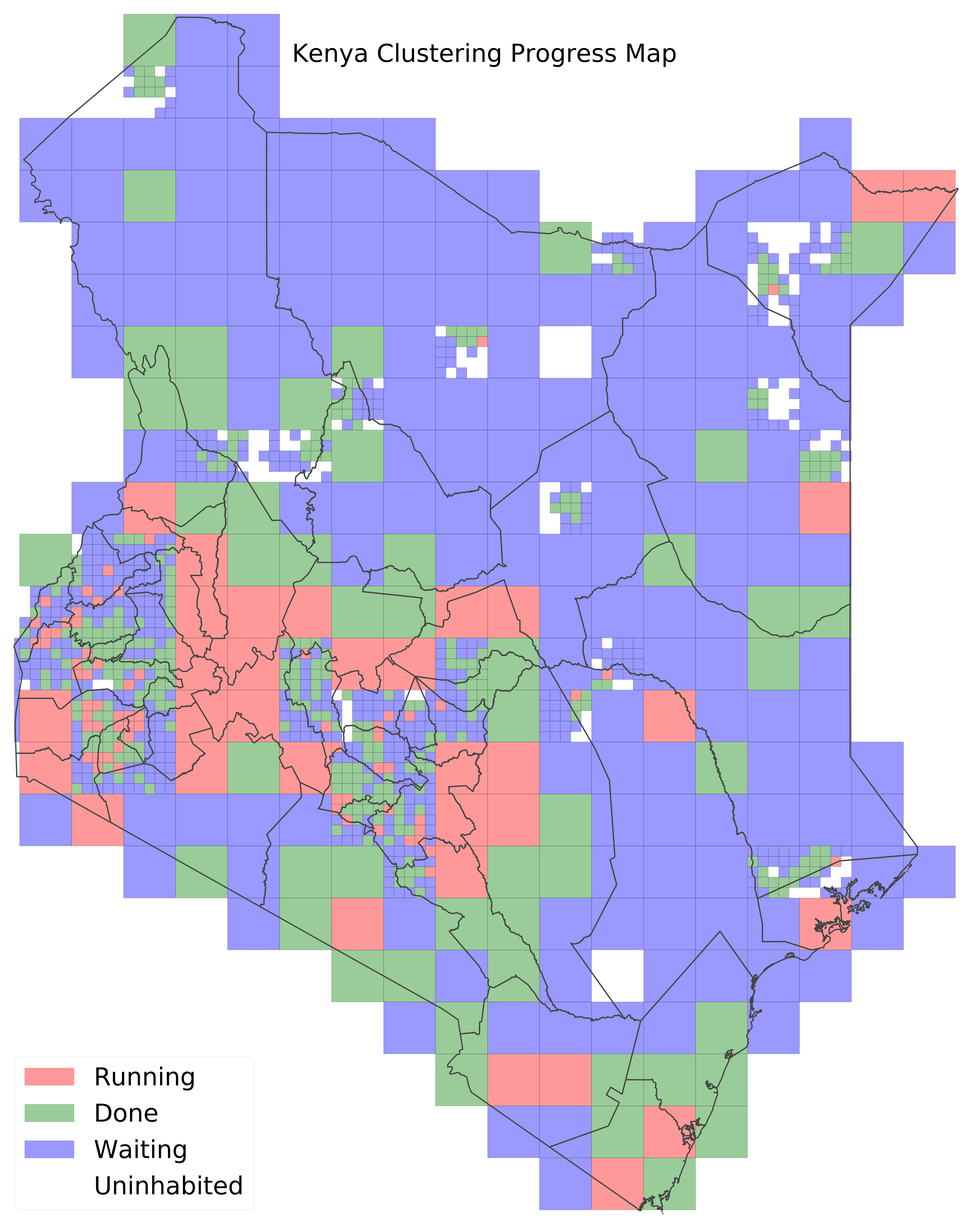
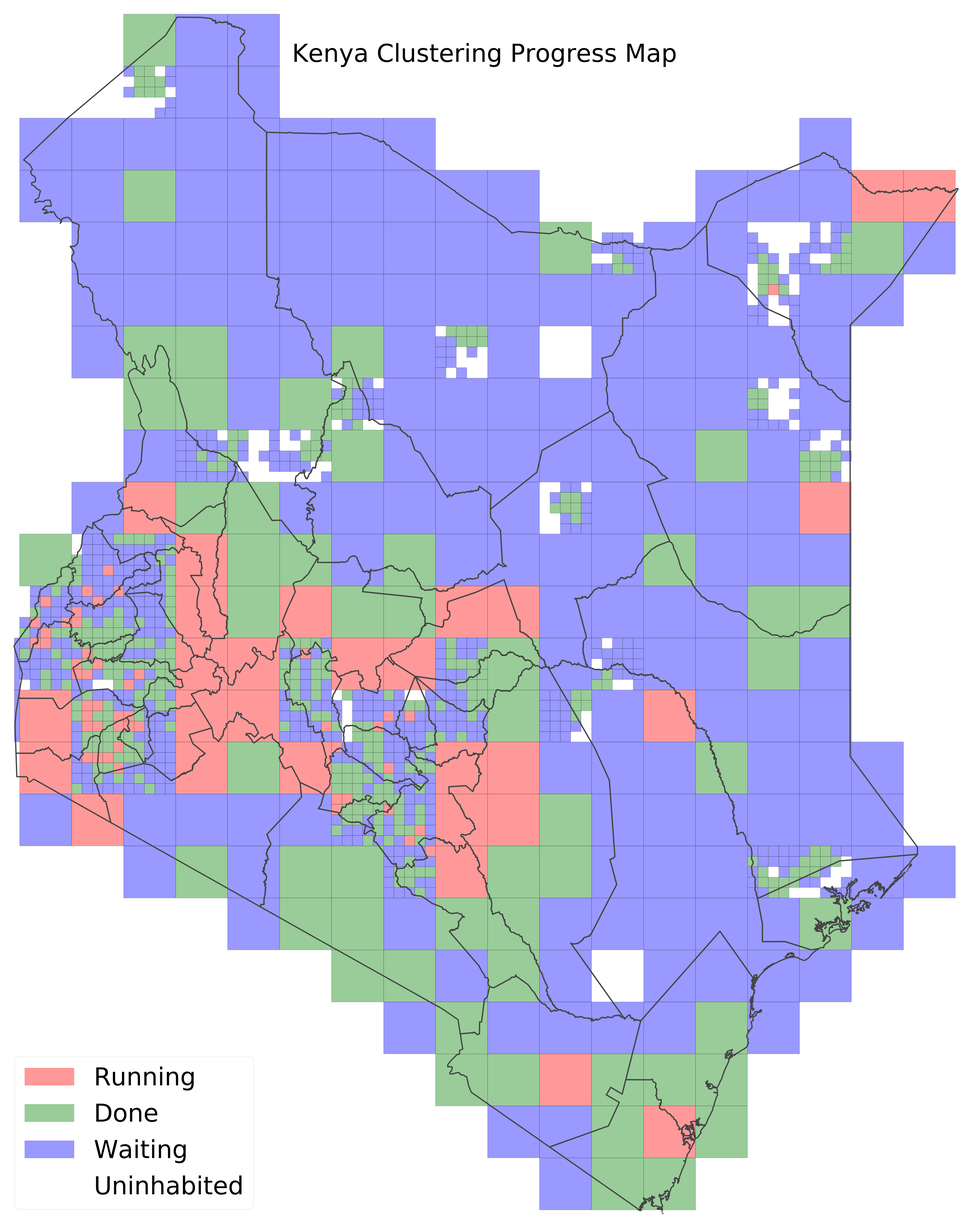
Update

diff --git a/index.html b/index.html
@@ -54,15 +54,15 @@
                                 <div>
         
         
-            <div id="2d0a9615-b0a7-439f-aee2-c193598737e7" class="plotly-graph-div" style="height:100%; width:100%;"></div>
+            <div id="19d2076e-b19a-46d4-a4b0-689c056f9ac7" class="plotly-graph-div" style="height:100%; width:100%;"></div>
             <script type="text/javascript">
                 
                     window.PLOTLYENV=window.PLOTLYENV || {};
                     
-                if (document.getElementById("2d0a9615-b0a7-439f-aee2-c193598737e7")) {
+                if (document.getElementById("19d2076e-b19a-46d4-a4b0-689c056f9ac7")) {
                     Plotly.newPlot(
-                        '2d0a9615-b0a7-439f-aee2-c193598737e7',
-                        [{"domain": {"x": [0.0, 0.45], "y": [0.0, 1.0]}, "labels": ["Completed", "Running", "Waiting"], "marker": {"colors": ["green", "red", "blue"]}, "type": "pie", "values": [6985389, 2643409, 2087509]}, {"domain": {"x": [0.55, 1.0], "y": [0.0, 1.0]}, "labels": ["Completed", "Running", "Waiting"], "marker": {"colors": ["green", "red", "blue"]}, "type": "pie", "values": [1293, 99, 652]}],
+                        '19d2076e-b19a-46d4-a4b0-689c056f9ac7',
+                        [{"domain": {"x": [0.0, 0.45], "y": [0.0, 1.0]}, "labels": ["Completed", "Running", "Waiting"], "marker": {"colors": ["green", "red", "blue"]}, "type": "pie", "values": [7272424, 2356374, 2087509]}, {"domain": {"x": [0.55, 1.0], "y": [0.0, 1.0]}, "labels": ["Completed", "Running", "Waiting"], "marker": {"colors": ["green", "red", "blue"]}, "type": "pie", "values": [1315, 77, 652]}],
                         {"annotations": [{"font": {"size": 16}, "showarrow": false, "text": "Area to be clustered", "x": 0.225, "xanchor": "center", "xref": "paper", "y": 1.0, "yanchor": "bottom", "yref": "paper"}, {"font": {"size": 16}, "showarrow": false, "text": "Jobs running", "x": 0.775, "xanchor": "center", "xref": "paper", "y": 1.0, "yanchor": "bottom", "yref": "paper"}], "template": {"data": {"bar": [{"error_x": {"color": "#2a3f5f"}, "error_y": {"color": "#2a3f5f"}, "marker": {"line": {"color": "#E5ECF6", "width": 0.5}}, "type": "bar"}], "barpolar": [{"marker": {"line": {"color": "#E5ECF6", "width": 0.5}}, "type": "barpolar"}], "carpet": [{"aaxis": {"endlinecolor": "#2a3f5f", "gridcolor": "white", "linecolor": "white", "minorgridcolor": "white", "startlinecolor": "#2a3f5f"}, "baxis": {"endlinecolor": "#2a3f5f", "gridcolor": "white", "linecolor": "white", "minorgridcolor": "white", "startlinecolor": "#2a3f5f"}, "type": "carpet"}], "choropleth": [{"colorbar": {"outlinewidth": 0, "ticks": ""}, "type": "choropleth"}], "contour": [{"colorbar": {"outlinewidth": 0, "ticks": ""}, "colorscale": [[0.0, "#0d0887"], [0.1111111111111111, "#46039f"], [0.2222222222222222, "#7201a8"], [0.3333333333333333, "#9c179e"], [0.4444444444444444, "#bd3786"], [0.5555555555555556, "#d8576b"], [0.6666666666666666, "#ed7953"], [0.7777777777777778, "#fb9f3a"], [0.8888888888888888, "#fdca26"], [1.0, "#f0f921"]], "type": "contour"}], "contourcarpet": [{"colorbar": {"outlinewidth": 0, "ticks": ""}, "type": "contourcarpet"}], "heatmap": [{"colorbar": {"outlinewidth": 0, "ticks": ""}, "colorscale": [[0.0, "#0d0887"], [0.1111111111111111, "#46039f"], [0.2222222222222222, "#7201a8"], [0.3333333333333333, "#9c179e"], [0.4444444444444444, "#bd3786"], [0.5555555555555556, "#d8576b"], [0.6666666666666666, "#ed7953"], [0.7777777777777778, "#fb9f3a"], [0.8888888888888888, "#fdca26"], [1.0, "#f0f921"]], "type": "heatmap"}], "heatmapgl": [{"colorbar": {"outlinewidth": 0, "ticks": ""}, "colorscale": [[0.0, "#0d0887"], [0.1111111111111111, "#46039f"], [0.2222222222222222, "#7201a8"], [0.3333333333333333, "#9c179e"], [0.4444444444444444, "#bd3786"], [0.5555555555555556, "#d8576b"], [0.6666666666666666, "#ed7953"], [0.7777777777777778, "#fb9f3a"], [0.8888888888888888, "#fdca26"], [1.0, "#f0f921"]], "type": "heatmapgl"}], "histogram": [{"marker": {"colorbar": {"outlinewidth": 0, "ticks": ""}}, "type": "histogram"}], "histogram2d": [{"colorbar": {"outlinewidth": 0, "ticks": ""}, "colorscale": [[0.0, "#0d0887"], [0.1111111111111111, "#46039f"], [0.2222222222222222, "#7201a8"], [0.3333333333333333, "#9c179e"], [0.4444444444444444, "#bd3786"], [0.5555555555555556, "#d8576b"], [0.6666666666666666, "#ed7953"], [0.7777777777777778, "#fb9f3a"], [0.8888888888888888, "#fdca26"], [1.0, "#f0f921"]], "type": "histogram2d"}], "histogram2dcontour": [{"colorbar": {"outlinewidth": 0, "ticks": ""}, "colorscale": [[0.0, "#0d0887"], [0.1111111111111111, "#46039f"], [0.2222222222222222, "#7201a8"], [0.3333333333333333, "#9c179e"], [0.4444444444444444, "#bd3786"], [0.5555555555555556, "#d8576b"], [0.6666666666666666, "#ed7953"], [0.7777777777777778, "#fb9f3a"], [0.8888888888888888, "#fdca26"], [1.0, "#f0f921"]], "type": "histogram2dcontour"}], "mesh3d": [{"colorbar": {"outlinewidth": 0, "ticks": ""}, "type": "mesh3d"}], "parcoords": [{"line": {"colorbar": {"outlinewidth": 0, "ticks": ""}}, "type": "parcoords"}], "scatter": [{"marker": {"colorbar": {"outlinewidth": 0, "ticks": ""}}, "type": "scatter"}], "scatter3d": [{"line": {"colorbar": {"outlinewidth": 0, "ticks": ""}}, "marker": {"colorbar": {"outlinewidth": 0, "ticks": ""}}, "type": "scatter3d"}], "scattercarpet": [{"marker": {"colorbar": {"outlinewidth": 0, "ticks": ""}}, "type": "scattercarpet"}], "scattergeo": [{"marker": {"colorbar": {"outlinewidth": 0, "ticks": ""}}, "type": "scattergeo"}], "scattergl": [{"marker": {"colorbar": {"outlinewidth": 0, "ticks": ""}}, "type": "scattergl"}], "scattermapbox": [{"marker": {"colorbar": {"outlinewidth": 0, "ticks": ""}}, "type": "scattermapbox"}], "scatterpolar": [{"marker": {"colorbar": {"outlinewidth": 0, "ticks": ""}}, "type": "scatterpolar"}], "scatterpolargl": [{"marker": {"colorbar": {"outlinewidth": 0, "ticks": ""}}, "type": "scatterpolargl"}], "scatterternary": [{"marker": {"colorbar": {"outlinewidth": 0, "ticks": ""}}, "type": "scatterternary"}], "surface": [{"colorbar": {"outlinewidth": 0, "ticks": ""}, "colorscale": [[0.0, "#0d0887"], [0.1111111111111111, "#46039f"], [0.2222222222222222, "#7201a8"], [0.3333333333333333, "#9c179e"], [0.4444444444444444, "#bd3786"], [0.5555555555555556, "#d8576b"], [0.6666666666666666, "#ed7953"], [0.7777777777777778, "#fb9f3a"], [0.8888888888888888, "#fdca26"], [1.0, "#f0f921"]], "type": "surface"}], "table": [{"cells": {"fill": {"color": "#EBF0F8"}, "line": {"color": "white"}}, "header": {"fill": {"color": "#C8D4E3"}, "line": {"color": "white"}}, "type": "table"}]}, "layout": {"annotationdefaults": {"arrowcolor": "#2a3f5f", "arrowhead": 0, "arrowwidth": 1}, "colorscale": {"diverging": [[0, "#8e0152"], [0.1, "#c51b7d"], [0.2, "#de77ae"], [0.3, "#f1b6da"], [0.4, "#fde0ef"], [0.5, "#f7f7f7"], [0.6, "#e6f5d0"], [0.7, "#b8e186"], [0.8, "#7fbc41"], [0.9, "#4d9221"], [1, "#276419"]], "sequential": [[0.0, "#0d0887"], [0.1111111111111111, "#46039f"], [0.2222222222222222, "#7201a8"], [0.3333333333333333, "#9c179e"], [0.4444444444444444, "#bd3786"], [0.5555555555555556, "#d8576b"], [0.6666666666666666, "#ed7953"], [0.7777777777777778, "#fb9f3a"], [0.8888888888888888, "#fdca26"], [1.0, "#f0f921"]], "sequentialminus": [[0.0, "#0d0887"], [0.1111111111111111, "#46039f"], [0.2222222222222222, "#7201a8"], [0.3333333333333333, "#9c179e"], [0.4444444444444444, "#bd3786"], [0.5555555555555556, "#d8576b"], [0.6666666666666666, "#ed7953"], [0.7777777777777778, "#fb9f3a"], [0.8888888888888888, "#fdca26"], [1.0, "#f0f921"]]}, "colorway": ["#636efa", "#EF553B", "#00cc96", "#ab63fa", "#FFA15A", "#19d3f3", "#FF6692", "#B6E880", "#FF97FF", "#FECB52"], "font": {"color": "#2a3f5f"}, "geo": {"bgcolor": "white", "lakecolor": "white", "landcolor": "#E5ECF6", "showlakes": true, "showland": true, "subunitcolor": "white"}, "hoverlabel": {"align": "left"}, "hovermode": "closest", "mapbox": {"style": "light"}, "paper_bgcolor": "white", "plot_bgcolor": "#E5ECF6", "polar": {"angularaxis": {"gridcolor": "white", "linecolor": "white", "ticks": ""}, "bgcolor": "#E5ECF6", "radialaxis": {"gridcolor": "white", "linecolor": "white", "ticks": ""}}, "scene": {"xaxis": {"backgroundcolor": "#E5ECF6", "gridcolor": "white", "gridwidth": 2, "linecolor": "white", "showbackground": true, "ticks": "", "zerolinecolor": "white"}, "yaxis": {"backgroundcolor": "#E5ECF6", "gridcolor": "white", "gridwidth": 2, "linecolor": "white", "showbackground": true, "ticks": "", "zerolinecolor": "white"}, "zaxis": {"backgroundcolor": "#E5ECF6", "gridcolor": "white", "gridwidth": 2, "linecolor": "white", "showbackground": true, "ticks": "", "zerolinecolor": "white"}}, "shapedefaults": {"line": {"color": "#2a3f5f"}}, "ternary": {"aaxis": {"gridcolor": "white", "linecolor": "white", "ticks": ""}, "baxis": {"gridcolor": "white", "linecolor": "white", "ticks": ""}, "bgcolor": "#E5ECF6", "caxis": {"gridcolor": "white", "linecolor": "white", "ticks": ""}}, "title": {"x": 0.05}, "xaxis": {"automargin": true, "gridcolor": "white", "linecolor": "white", "ticks": "", "zerolinecolor": "white", "zerolinewidth": 2}, "yaxis": {"automargin": true, "gridcolor": "white", "linecolor": "white", "ticks": "", "zerolinecolor": "white", "zerolinewidth": 2}}}, "title": {"text": "Completion Statistics"}},
                         {"responsive": true}
                     )
@@ -74,15 +74,15 @@
                                 <div>
         
         
-            <div id="6c0a2bd8-3aad-40c9-ac04-60a2e9d9c943" class="plotly-graph-div" style="height:100%; width:100%;"></div>
+            <div id="4a8355c1-0343-4745-9690-a1a0379feee5" class="plotly-graph-div" style="height:100%; width:100%;"></div>
             <script type="text/javascript">
                 
                     window.PLOTLYENV=window.PLOTLYENV || {};
                     
-                if (document.getElementById("6c0a2bd8-3aad-40c9-ac04-60a2e9d9c943")) {
+                if (document.getElementById("4a8355c1-0343-4745-9690-a1a0379feee5")) {
                     Plotly.newPlot(
-                        '6c0a2bd8-3aad-40c9-ac04-60a2e9d9c943',
-                        [{"name": "completed", "nbinsx": 10, "opacity": 0.75, "type": "histogram", "x": [120, 192, 126, 111, 145, 73, 186, 139, 48, 199, 68, 135, 157, 156, 189, 160, 144, 169, 129, 139, 70, 48, 145, 76, 63, 74, 180, 108, 156, 141, 185, 56, 100, 199, 187, 120, 187, 95, 184, 48, 98, 90, 123, 64, 202, 114, 195, 196, 63, 94, 180, 108, 54, 55, 165, 92, 143, 119, 125, 167, 131, 203, 68, 73, 89, 172, 71, 67, 184, 148, 50, 172, 102, 72, 126, 90, 170, 133, 85, 73, 82, 127, 166, 97, 67, 171, 191, 144, 174, 128, 61, 82, 65, 121, 184, 169, 162, 199, 194, 201, 193, 96, 74, 191, 164, 189, 147, 141, 123, 199, 129, 102, 163, 203, 189, 122, 61, 151, 188, 105, 200, 160, 93, 139, 110, 53, 68, 80, 71, 125, 203, 105, 148, 106, 51, 91, 177, 50, 145, 54, 149, 159, 198, 76, 159, 137, 120, 127, 107, 194, 67, 195, 136, 127, 51, 54, 132, 124, 198, 110, 64, 83, 150, 65, 94, 51, 122, 77, 147, 87, 148, 164, 50, 163, 83, 176, 118, 56, 145, 149, 60, 145, 115, 180, 165, 126, 184, 79, 69, 66, 87, 180, 201, 75, 155, 114, 56, 127, 58, 49, 135, 121, 201, 190, 201, 157, 56, 82, 57, 97, 188, 203, 90, 98, 126, 75, 122, 155, 171, 117, 181, 49, 80, 143, 180, 73, 124, 74, 102, 195, 86, 185, 183, 99, 144, 189, 95, 165, 172, 190, 184, 48, 193, 139, 141, 70, 75, 148, 119, 74, 48, 157, 149, 57, 54, 162, 106, 180, 54, 114, 112, 180, 69, 155, 172, 100, 90, 156, 93, 64, 178, 160, 144, 85, 98, 159, 127, 125, 116, 59, 122, 183, 146, 66, 60, 79, 49, 139, 116, 125, 180, 124, 113, 195, 135, 117, 132, 100, 63, 58, 151, 135, 67, 56, 80, 125, 64, 106, 165, 62, 162, 187, 164, 93, 199, 191, 181, 66, 88, 86, 65, 52, 201, 104, 184, 182, 146, 189, 185, 125, 141, 173, 150, 62, 203, 67, 90, 96, 144, 80, 175, 151, 106, 76, 122, 50, 192, 102, 197, 96, 151, 68, 162, 113, 198, 134, 67, 90, 111, 139, 50, 57, 117, 162, 148, 194, 62, 191, 52, 91, 83, 68, 75, 146, 78, 82, 138, 180, 61, 144, 144, 167, 202, 112, 119, 130, 49, 127, 129, 117, 91, 157, 118, 91, 126, 108, 49, 136, 84, 85, 138, 168, 162, 100, 89, 109, 87, 193, 142, 72, 97, 107, 145, 61, 170, 189, 92, 56, 184, 134, 66, 147, 107, 167, 188, 184, 71, 176, 106, 195, 71, 147, 101, 64, 67, 185, 75, 169, 82, 78, 122, 141, 146, 90, 200, 110, 185, 179, 198, 156, 78, 74, 70, 166, 177, 171, 59, 90, 80, 119, 79, 81, 149, 90, 78, 117, 117, 109, 196, 99, 97, 152, 123, 87, 175, 116, 54, 69, 58, 111, 164, 141, 143, 58, 79, 48, 187, 68, 114, 174, 148, 50, 115, 50, 91, 60, 199, 145, 84, 177, 131, 191, 64, 169, 175, 134, 185, 189, 101, 97, 129, 192, 49, 48, 100, 189, 191, 193, 162, 81, 74, 105, 148, 171, 122, 131, 78, 115, 159, 92, 60, 81, 172, 146, 151, 113, 172, 58, 155, 176, 70, 118, 106, 73, 83, 66, 158, 115, 192, 49, 64, 133, 90, 171, 135, 134, 117, 108, 63, 60, 112, 160, 171, 74, 165, 128, 146, 184, 181, 85, 183, 128, 90, 64, 99, 107, 116, 86, 158, 198, 160, 87, 150, 170, 75, 184, 129, 119, 110, 130, 79, 66, 116, 98, 89, 123, 174, 149, 197, 201, 120, 55, 88, 175, 111, 119, 186, 68, 137, 63, 117, 144, 152, 167, 148, 69, 53, 160, 56, 97, 65, 155, 154, 169, 199, 202, 80, 61, 92, 189, 101, 202, 67, 179, 202, 90, 106, 150, 170, 56, 147, 69, 139, 137, 109, 120, 62, 129, 177, 98, 169, 104, 124, 178, 88, 73, 74, 68, 180, 173, 167, 69, 54, 128, 163, 146, 198, 92, 132, 116, 124, 183, 53, 124, 134, 138, 112, 170, 102, 138, 158, 198, 191, 170, 195, 69, 195, 73, 96, 96, 131, 184, 49, 171, 102, 188, 154, 136, 122, 135, 153, 192, 51, 199, 111, 145, 58, 178, 96, 180, 75, 179, 135, 131, 109, 128, 162, 185, 99, 149, 110, 71, 174, 197, 133, 91, 133, 193, 136, 106, 99, 100, 149, 170, 91, 161, 177, 151, 58, 178, 110, 173, 183, 78, 194, 177, 144, 91, 170, 87, 123, 196, 188, 55, 64, 134, 76, 130, 184, 162, 141, 129, 144, 177, 96, 113, 76, 186, 159, 90, 149, 84, 126, 121, 190, 48, 130, 159, 156, 133, 96, 110, 127, 69, 132, 86, 126, 138, 183, 61, 87, 111, 175, 186, 175, 76, 138, 92, 74, 130, 64, 63, 124, 48, 89, 147, 195, 152, 141, 80, 189, 118, 51, 118, 197, 73, 115, 132, 100, 193, 181, 84, 198, 159, 118, 77, 106, 101, 152, 200, 172, 199, 172, 73, 203, 161, 62, 71, 79, 128, 92, 176, 165, 121, 114, 61, 52, 164, 114, 170, 73, 85, 119, 191, 89, 152, 170, 152, 98, 136, 64, 131, 81, 172, 120, 63, 78, 192, 139, 190, 92, 109, 176, 98, 106, 82, 147, 89, 85, 166, 56, 123, 186, 83, 158, 61, 70, 111, 66, 117, 95, 108, 61, 62, 137, 121, 132, 180, 97, 192, 170, 105, 200, 189, 185, 95, 57, 77, 156, 73, 72, 153, 56, 150, 60, 173, 66, 149, 52, 150, 203, 135, 107, 184, 169, 186, 108, 195, 92, 191, 87, 96, 149, 135, 170, 164, 74, 143, 171, 160, 164, 143, 133, 124, 113, 159, 57, 123, 158, 0.01256551924637878, 2.031278882043035, 4.466635577699182, 2.283967800984974, 0.012629159908304401, 0.9977496022980714, 0.8439177414522335, 2.55080341624801, 0.0030280739300476856, 3.033402550372476, 2.411437372282251, 2.4911164946555315, 1.0929302639294312, 0.531687409389156, 0.5781094564650103, 0.028720294560016357, 18.74737239750584, 0.010820917425778936, 0.011393932793550238, 0.022453685407369504, 0.0005362074610808817, 23.169971817029744, 0.02574928927629583, 0.010412230355468512, 0.012309926202769989, 0.013117010951339502, 16.172634979912512, 24.197303425262216, 0.014614110490766424, 1.6660948115636065, 51.41462900401636, 28.42065637655776, 56.58985730378391, 0.26675963916447165, 76.31439234112584, 23.06106870936999, 28.29293772542335, 96.1172047470417, 0.7235074275263791, 0.8857968611333569, 0.010887539586205723, 9.637778536012759, 0.012987286066097448, 0.010500424807471148, 61.25868719977747, 0.018026968722450146, 0.02283181654122963, 0.0232172822081094, 64.37414530286804, 0.0005483629542509278, 0.014216265509157715, 1.8425461223902595, 31.005058035875287, 32.38996031724137, 0.00037450664605299304, 0.5672302767513772, 0.022697619966075135, 20.630684769764454, 22.455238852506398, 22.370978698186356, 23.791091145199477, 21.354535112181328, 19.972216772567773, 3.212462333310266, 8.154006390617496, 0.04759814068086498, 6.504075880396414, 13.89447869272555, 19.24111627429614, 3.6097715192194375, 0.00026834966291603053, 0.010618081634949615, 1.3917215356874901, 0.48187891400943045, 2.583171847039744, 0.8049431936422481, 10.46790875465525, 1.26777937910028, 1.4786813072133291, 8.994811869601512e-05, 23.177757366374458, 0.9807443028944545, 0.004612933161369751, 2.4949029032150025, 2.080096158679484, 1.2147507786305507, 2.6700113488516464, 0.8016751264499747, 0.8105110903566755, 1.4661240616547484, 0.642952931695262, 1.5388347910741706, 0.570450302261678, 0.676531115560275, 0.4416024632347074, 0.7383319747716691, 1.975990379253053, 0.015027409369938106, 9.476642146433589, 1.6069920429138518, 2.1785194006797, 0.6639896367980529, 1.844437805976356, 2.5775274985114165, 12.016327897414126, 58.453716572349435, 0.5234058562849855, 0.018011950298802305, 0.011350371185647837, 1.1727153891236068, 0.835739973281678, 0.004602933819887026, 0.09285675373892041, 9.07795606625635, 2.2472973363502793, 6.547343554779202, 73.02956258867525, 0.8439115453102729, 10.24228035439362, 14.444474422340846, 2.3458778707280485, 61.20359430194942, 29.882948371680012, 28.55017720684752, 87.98372963334978, 12.16796773003699, 12.612287718710562, 2.961932070451666, 18.55041246714473, 18.937568218196947, 1.0624064603841787, 0.030744478738892623, 0.8950065180911527, 0.9010954818097203, 5.649076448200827, 2.1195111164028315, 2.069400930089954, 0.7605970404205598, 0.9393959035241924, 0.9921053658105503, 1.5967877889002884, 0.4550896457933251, 2.5790496767166764, 1.0194158868306034, 0.5863301180763584, 0.7981648186194555, 0.9908688786249776, 0.810402134885533, 2.0856513972127706, 1.2932884421411694, 0.49691491276527006, 0.7966524474369364, 0.6729992489760884, 1.8921732032730425, 3.282602465387495, 1.7214145275972421, 4.419409275089985, 0.9859078907305634, 0.5314057440939036, 2.8849271727144434, 0.899044098629707, 24.362028501817242, 1.8659441265769094, 13.203837902717495, 4.999713585487787, 9.410620573757203, 3.620655185518068, 0.01620431947528333, 1.001532521426367, 0.4980349418661272, 1.7200232901677697, 1.5153453101683407, 2.944336385319992, 0.701598589646132, 0.014788153563395058, 0.012049959961980017, 47.932779371596084, 0.00614376211325278, 3.9684052563871957, 0.007029536687465596, 0.005264698850355103, 1.458090582039699, 0.01613618581589846, 0.008723299954204556, 0.005560781750931797, 0.022164213271905563, 0.01980184760785943, 0.0058415283802257705, 0.03085477611049266, 0.021718643682812556, 0.0066920988855679025, 1.6260187302402402, 62.48999257581085, 4.766964711082207, 75.10824321479, 23.802881101629204, 2.6011950155686483, 103.76521371200806, 88.81001583348662, 2.858789544644403, 5.99705846876307, 7.812376534786667, 39.54612476095978, 0.4895081306069431, 0.5482308496358261, 1.7466616037550071, 1.6554095741002435, 2.0601249029228024, 5.045276660725552, 0.7235338148983687, 0.013998460170948633, 0.02133806001491952, 1.4327314011872254, 1.8212340862163632, 3.622270820215862, 1.1879873177889062, 0.6183621395530645, 1.7886895069744464, 0.8741376621347283, 6.608441632991954, 2.505839682863896, 0.6232807772930634, 2.5382475522580914, 0.5756996264600053, 89.4834816570439, 46.63967018503612, 0.7381573643813479, 0.6077324956769331, 1.742027875775239, 1.656951776540567, 1.5140460599919445, 1.4524389884377724, 0.026787413596053012, 0.9009647462855921, 3.6179311950786115, 8.23630072631139, 9.174737530879435, 20.24275410313748, 4.253018126436654, 8.954053549861312e-05, 0.012640577729407944, 0.020514929327771915, 3.6495024540797267, 0.011880509187103384, 0.009155642726286392, 1.3890737453055853, 1.7944563592491125, 1.6125034528642168, 1.165376510585322, 1.377369691617205, 0.7693352569780675, 1.2406486539633221, 2.1056685789464327, 1.0272280507761105, 1.9279062730399892, 0.7923042975955953, 0.7749443662422224, 0.5468732919652636, 1.6982353523541116, 59.1718650632717, 19.345776829824157, 0.018030118416692525, 73.55765199942832, 47.75887136182023, 58.976882427765, 69.57895735340892, 79.96451979160135, 0.787971262317733, 0.030682147868630837, 13.573138783443333, 5.949375136136982, 0.058464208583334565, 11.368883220040004, 20.27301094285861, 2.83038648863779, 16.977317446179157, 13.03531006308169, 1.6476306101491598, 1.370504800357222, 1.0742190798185767, 5.3744004933971965, 1.3741228533972107, 10.895977459342491, 5.267246090165249, 10.899821774279763, 1.023112653195276, 1.5476402869991983, 0.5246448035783314, 13.958293444167227, 66.04790592060309, 9.44631948006417, 0.45267568077222675, 97.99722977629388, 44.37692842779196, 40.35087551048472, 20.180038070880887, 2.6599171624463955, 1.1645911040963903, 4.857480304688603, 21.051946701724148, 20.212247379973093, 5.127513989434422, 3.036959999969436, 10.215696675797226, 2.8250815881055638, 5.650937247056393, 0.46336069238139316, 30.180569109553083, 0.5955916158186219, 7.124858049408067, 0.05629120791945346, 3.7264226587903173, 2.583148819781103, 0.026318210858347204, 0.027907736183066544, 2.7998845741886176, 8.199071349409996, 4.545558283126673, 14.094844865648888, 0.06714481557557724, 12.884816001331945, 3.8775291413805744, 4.628832046564429, 1.743834495720576, 0.9538928544485761, 4.0026581305611275, 0.8171857732241431, 19.469324605870288, 25.861079740666124, 6.728668792326158, 21.210223013759453, 26.5965851066061, 3.731226975788886, 3.1478553105497196, 0.7854382908091713, 0.3470780939444214, 22.386121843654724, 2.987098519492752, 8.630719574528339, 21.063147841873903, 0.47085865818442674, 23.102487147341986, 7.581098945971108, 25.999654694300773]}, {"name": "running", "nbinsx": 10, "opacity": 0.75, "type": "histogram", "x": [26.0, 78.0, 33.0, 74.0, 38.0, 24.0, 0.0, 22.0, 21.0, 98.0, 57.0, 77.0, 20.0, 23.0, 0.0, 58.0, 23.0, 78.0, 0.0, 0.0, 70.0, 33.0, 0.0, 54.0, 0.0, 0.0, 78.0, 39.0, 25.0, 98.0, 0.0, 52.0, 0.0, 18.0, 18.0, 98.0, 45.0, 95.0, 78.0, 52.0, 49.0, 86.0, 41.0, 17.0, 17.0, 17.0, 17.0, 16.0, 16.0, 15.0, 13.0, 12.0, 0.0, 32.0, 3.0, 3.0, 39.0, 33.0, 33.0, 78.0, 0.0, 1.0, 0.0, 0.0, 0.0, 0.0, 0.0, 33.0, 67.0, 98.0, 0.0, 0.0, 26.0, 0.0, 0.0, 29.0, 0.0, 0.0, 0.0, 25.0, 0.0, 0.0, 0.0, 0.0, 0.0, 0.0, 0.0, 0.0, 0.0, 0.0, 0.0, 0.0, 0.0, 0.0, 0.0, 0.0, 0.0, 0.0, 0.0]}],
+                        '4a8355c1-0343-4745-9690-a1a0379feee5',
+                        [{"name": "completed", "nbinsx": 10, "opacity": 0.75, "type": "histogram", "x": [61, 58, 48, 198, 99, 114, 119, 57, 88, 140, 187, 72, 175, 180, 53, 200, 88, 106, 88, 48, 67, 106, 144, 83, 87, 196, 102, 95, 67, 113, 58, 119, 161, 54, 77, 85, 202, 112, 69, 184, 49, 171, 71, 177, 72, 167, 172, 186, 108, 203, 186, 140, 142, 168, 60, 115, 153, 142, 116, 142, 110, 118, 59, 99, 56, 93, 193, 195, 172, 159, 64, 169, 52, 101, 195, 147, 149, 115, 151, 145, 130, 202, 68, 177, 165, 87, 123, 200, 196, 93, 111, 184, 183, 86, 108, 99, 164, 138, 56, 91, 48, 103, 119, 157, 107, 164, 130, 187, 74, 51, 126, 59, 54, 144, 128, 55, 175, 147, 65, 79, 192, 126, 127, 69, 92, 194, 130, 180, 75, 184, 58, 118, 186, 136, 125, 187, 96, 181, 170, 165, 151, 134, 195, 105, 102, 111, 56, 110, 167, 196, 145, 146, 146, 202, 54, 93, 134, 90, 146, 163, 185, 106, 189, 112, 129, 116, 193, 157, 197, 139, 190, 154, 61, 181, 132, 142, 105, 115, 92, 110, 145, 176, 91, 132, 80, 203, 96, 72, 184, 78, 59, 51, 188, 172, 176, 151, 48, 145, 97, 56, 129, 69, 89, 69, 196, 79, 185, 104, 148, 90, 119, 125, 130, 183, 88, 89, 71, 169, 109, 105, 63, 200, 192, 102, 136, 155, 157, 192, 73, 202, 201, 105, 82, 144, 94, 63, 58, 111, 170, 187, 182, 56, 121, 122, 186, 84, 203, 182, 112, 199, 94, 147, 101, 194, 194, 178, 74, 198, 129, 88, 100, 172, 179, 128, 169, 192, 84, 119, 152, 51, 103, 93, 158, 127, 67, 122, 145, 68, 176, 184, 128, 201, 165, 194, 181, 65, 109, 143, 184, 177, 125, 67, 156, 105, 160, 188, 67, 78, 98, 175, 114, 141, 163, 144, 75, 129, 91, 95, 115, 87, 131, 202, 133, 132, 117, 136, 192, 51, 184, 104, 196, 150, 75, 125, 157, 119, 177, 67, 55, 169, 66, 139, 70, 98, 69, 69, 185, 94, 190, 135, 173, 173, 173, 167, 96, 129, 83, 75, 181, 117, 104, 139, 200, 78, 105, 180, 166, 197, 148, 143, 142, 95, 106, 158, 166, 130, 199, 98, 107, 71, 147, 84, 201, 124, 203, 152, 196, 136, 176, 118, 203, 182, 203, 103, 167, 158, 56, 200, 118, 52, 84, 122, 185, 181, 189, 61, 70, 158, 140, 178, 140, 101, 129, 56, 146, 196, 115, 190, 150, 106, 114, 108, 106, 170, 50, 79, 89, 85, 191, 140, 82, 203, 125, 192, 83, 80, 51, 72, 173, 165, 48, 151, 55, 130, 136, 93, 181, 139, 190, 165, 160, 76, 121, 79, 181, 48, 110, 152, 183, 81, 80, 157, 84, 99, 100, 153, 136, 183, 127, 176, 123, 154, 99, 172, 193, 73, 183, 196, 96, 199, 171, 74, 110, 184, 56, 127, 159, 86, 141, 144, 190, 152, 77, 125, 136, 132, 132, 90, 149, 54, 117, 134, 93, 148, 107, 65, 166, 196, 193, 196, 123, 165, 188, 192, 52, 109, 132, 164, 103, 166, 54, 165, 64, 126, 95, 177, 98, 144, 174, 64, 132, 115, 77, 97, 189, 186, 176, 84, 180, 102, 93, 144, 151, 102, 69, 68, 171, 53, 183, 97, 69, 118, 196, 146, 202, 58, 62, 143, 131, 202, 122, 145, 166, 150, 194, 163, 200, 110, 130, 100, 202, 114, 172, 95, 84, 201, 102, 157, 99, 185, 97, 179, 58, 122, 58, 92, 88, 194, 74, 80, 72, 75, 103, 143, 133, 69, 63, 54, 63, 123, 180, 125, 63, 50, 82, 184, 85, 117, 178, 68, 101, 57, 72, 54, 86, 60, 198, 48, 126, 178, 118, 129, 185, 123, 90, 67, 109, 195, 101, 200, 64, 54, 116, 119, 63, 187, 196, 163, 57, 133, 110, 130, 123, 149, 119, 156, 74, 123, 154, 83, 56, 90, 63, 71, 103, 151, 197, 132, 113, 129, 87, 144, 124, 64, 147, 123, 73, 105, 86, 82, 95, 137, 104, 87, 95, 52, 187, 129, 147, 124, 129, 155, 117, 94, 126, 54, 182, 196, 79, 186, 79, 122, 53, 145, 50, 196, 91, 132, 58, 129, 162, 97, 195, 56, 50, 154, 88, 64, 101, 118, 127, 184, 124, 165, 183, 145, 147, 62, 203, 196, 180, 151, 109, 198, 77, 150, 195, 176, 191, 60, 116, 154, 101, 83, 143, 142, 56, 94, 123, 175, 145, 90, 64, 157, 117, 125, 141, 62, 56, 184, 112, 164, 106, 97, 192, 109, 50, 179, 57, 59, 95, 198, 168, 128, 200, 63, 110, 186, 177, 69, 112, 131, 171, 126, 186, 192, 198, 63, 162, 82, 92, 188, 165, 108, 120, 76, 134, 182, 119, 57, 194, 157, 88, 69, 169, 135, 69, 175, 174, 53, 186, 93, 189, 126, 60, 151, 192, 146, 75, 171, 194, 87, 154, 138, 136, 185, 82, 85, 63, 121, 185, 159, 63, 164, 104, 108, 92, 78, 203, 173, 148, 49, 193, 59, 178, 124, 143, 49, 50, 106, 98, 187, 193, 153, 97, 152, 91, 65, 79, 139, 157, 99, 52, 182, 122, 158, 80, 108, 93, 100, 159, 182, 109, 51, 73, 77, 196, 132, 189, 191, 202, 51, 132, 65, 203, 108, 110, 154, 71, 202, 155, 132, 176, 126, 113, 179, 196, 84, 103, 159, 137, 65, 201, 151, 101, 186, 173, 67, 123, 120, 123, 183, 203, 77, 169, 54, 73, 103, 52, 122, 70, 173, 88, 151, 163, 91, 153, 194, 137, 52, 142, 145, 152, 169, 202, 131, 142, 198, 87, 128, 151, 65, 99, 59, 98, 55, 101, 110, 195, 57, 57, 129, 107, 179, 94, 177, 82, 75, 159, 72, 191, 196, 52, 77, 184, 63, 160, 48, 120, 0.01256551924637878, 2.031278882043035, 4.466635577699182, 0.021633616561112196, 2.283967800984974, 0.012629159908304401, 0.9977496022980714, 0.8439177414522335, 2.55080341624801, 0.0030280739300476856, 3.033402550372476, 2.411437372282251, 2.4911164946555315, 1.0929302639294312, 0.531687409389156, 0.5781094564650103, 0.028720294560016357, 18.74737239750584, 0.010820917425778936, 0.011393932793550238, 0.022453685407369504, 0.0005362074610808817, 23.169971817029744, 0.02574928927629583, 0.010412230355468512, 0.012309926202769989, 0.013117010951339502, 16.172634979912512, 24.197303425262216, 0.014614110490766424, 1.6660948115636065, 51.41462900401636, 28.42065637655776, 56.58985730378391, 0.26675963916447165, 76.31439234112584, 23.06106870936999, 28.29293772542335, 96.1172047470417, 0.7235074275263791, 0.8857968611333569, 0.010887539586205723, 9.637778536012759, 0.012987286066097448, 0.010500424807471148, 61.25868719977747, 0.018026968722450146, 0.02283181654122963, 0.0232172822081094, 64.37414530286804, 0.0005483629542509278, 0.014216265509157715, 1.8425461223902595, 0.010601638654416195, 31.005058035875287, 32.38996031724137, 0.00037450664605299304, 0.5672302767513772, 0.022697619966075135, 20.630684769764454, 22.455238852506398, 22.370978698186356, 23.791091145199477, 21.354535112181328, 19.972216772567773, 3.212462333310266, 8.154006390617496, 0.04759814068086498, 6.504075880396414, 13.89447869272555, 19.24111627429614, 3.6097715192194375, 0.0002683496629160306, 0.02982886245476357, 0.010618081634949615, 1.3917215356874901, 0.48187891400943045, 2.583171847039744, 0.8049431936422481, 10.46790875465525, 1.26777937910028, 1.4786813072133291, 8.994811869601512e-05, 23.177757366374458, 0.9807443028944545, 0.004612933161369751, 2.4949029032150025, 2.080096158679484, 1.2147507786305507, 2.6700113488516464, 0.8016751264499747, 0.8105110903566755, 1.4661240616547484, 0.642952931695262, 1.5388347910741706, 0.570450302261678, 0.676531115560275, 0.4416024632347074, 0.7383319747716691, 1.975990379253053, 0.023804923304721514, 0.014562290040352475, 0.015027409369938106, 9.476642146433589, 1.6069920429138518, 2.1785194006797, 0.6639896367980529, 1.844437805976356, 2.5775274985114165, 12.016327897414126, 58.453716572349435, 0.5234058562849855, 0.018011950298802305, 0.011350371185647837, 1.1727153891236068, 0.835739973281678, 0.004602933819887026, 0.09285675373892041, 9.07795606625635, 2.2472973363502793, 6.547343554779202, 73.02956258867525, 0.8439115453102729, 10.24228035439362, 14.444474422340846, 2.3458778707280485, 61.20359430194942, 29.882948371680012, 28.55017720684752, 0.006802455144772381, 87.98372963334978, 12.16796773003699, 12.612287718710562, 2.961932070451666, 18.55041246714473, 18.937568218196947, 1.0624064603841787, 0.030744478738892623, 0.8950065180911527, 0.9010954818097203, 5.649076448200827, 2.1195111164028315, 2.069400930089954, 0.7605970404205598, 0.9393959035241924, 0.9921053658105503, 1.5967877889002884, 0.4550896457933251, 2.5790496767166764, 1.0194158868306034, 0.5863301180763584, 0.7981648186194555, 0.9908688786249776, 0.810402134885533, 2.0856513972127706, 1.2932884421411694, 0.49691491276527006, 0.7966524474369364, 0.6729992489760884, 1.8921732032730425, 3.282602465387495, 1.7214145275972421, 4.419409275089985, 0.9859078907305634, 0.5314057440939036, 2.8849271727144434, 0.899044098629707, 24.362028501817242, 1.8659441265769094, 13.203837902717495, 4.999713585487787, 9.410620573757203, 3.620655185518068, 0.01620431947528333, 1.001532521426367, 0.4980349418661272, 1.7200232901677697, 1.5153453101683407, 2.944336385319992, 0.701598589646132, 0.014788153563395058, 0.012049959961980017, 0.011799003065774614, 47.932779371596084, 0.00614376211325278, 3.9684052563871957, 0.007029536687465596, 0.005264698850355103, 1.458090582039699, 0.01613618581589846, 0.008723299954204556, 0.005560781750931797, 0.022164213271905563, 0.01980184760785943, 0.0058415283802257705, 0.03085477611049266, 0.022485161490946374, 0.021718643682812556, 0.0066920988855679025, 1.6260187302402402, 0.0007331699185696055, 62.48999257581085, 4.766964711082207, 75.10824321479, 23.802881101629204, 2.6011950155686483, 103.76521371200806, 88.81001583348662, 0.0005270202278871167, 2.858789544644403, 5.99705846876307, 7.812376534786667, 39.54612476095978, 0.0005606609102834935, 0.4895081306069431, 0.5482308496358261, 1.7466616037550071, 1.6554095741002435, 2.0601249029228024, 5.045276660725552, 0.7235338148983687, 0.013998460170948633, 0.02133806001491952, 1.4327314011872254, 1.8212340862163632, 3.622270820215862, 1.1879873177889062, 0.6183621395530645, 1.7886895069744464, 0.8741376621347283, 6.608441632991954, 2.505839682863896, 0.6232807772930634, 2.5382475522580914, 0.5756996264600053, 89.4834816570439, 0.009733117167292901, 0.00015601468016127596, 46.63967018503612, 0.7381573643813479, 0.6077324956769331, 1.742027875775239, 1.656951776540567, 1.5140460599919445, 1.4524389884377724, 0.026787413596053012, 0.010592014976898077, 0.9009647462855921, 3.6179311950786115, 8.23630072631139, 9.174737530879435, 20.24275410313748, 4.253018126436654, 0.00011363849251140858, 8.954053549861312e-05, 0.012640577729407944, 0.020514929327771915, 3.6495024540797267, 0.011880509187103384, 0.009155642726286392, 1.3890737453055853, 1.7944563592491125, 1.6125034528642168, 1.165376510585322, 1.377369691617205, 0.7693352569780675, 1.2406486539633221, 2.1056685789464327, 0.009628124150099846, 1.0272280507761105, 1.9279062730399892, 0.7923042975955953, 0.7749443662422224, 0.5468732919652636, 1.6982353523541116, 59.1718650632717, 19.345776829824157, 0.018030118416692525, 73.55765199942832, 47.75887136182023, 58.976882427765, 69.57895735340892, 79.96451979160135, 0.0008180841274269178, 0.787971262317733, 0.030682147868630837, 13.573138783443333, 5.949375136136982, 0.058464208583334565, 11.368883220040004, 20.27301094285861, 2.83038648863779, 16.977317446179157, 9.884343818789434e-05, 13.03531006308169, 1.6476306101491598, 1.370504800357222, 1.0742190798185767, 5.3744004933971965, 1.3741228533972107, 10.895977459342491, 5.267246090165249, 10.899821774279763, 0.00010159025423557147, 1.023112653195276, 1.5476402869991983, 0.0005383127729830269, 0.5246448035783313, 13.958293444167227, 66.04790592060309, 9.44631948006417, 0.45267568077222675, 97.99722977629388, 44.37692842779196, 40.35087551048472, 20.180038070880887, 2.6599171624463955, 1.1645911040963903, 4.857480304688603, 21.051946701724148, 20.212247379973093, 5.127513989434421, 3.036959999969436, 10.215696675797226, 2.8250815881055638, 5.650937247056393, 0.46336069238139316, 30.180569109553083, 0.5955916158186219, 7.124858049408067, 0.05629120791945346, 3.7264226587903173, 2.583148819781103, 0.026318210858347204, 0.027907736183066544, 2.7998845741886176, 8.199071349409996, 4.545558283126673, 14.094844865648888, 0.06714481557557724, 12.884816001331945, 3.8775291413805744, 4.628832046564429, 1.743834495720576, 0.9538928544485761, 4.0026581305611275, 0.8171857732241431, 19.469324605870288, 25.861079740666124, 6.728668792326158, 21.210223013759453, 26.5965851066061, 3.731226975788886, 3.1478553105497196, 0.7854382908091713, 0.3470780939444214, 22.386121843654724, 2.987098519492752, 8.630719574528339, 21.063147841873903, 0.47085865818442674, 23.102487147341986, 7.581098945971108, 0.00011549666967547648, 7.798455504899597e-05, 25.999654694300773]}, {"name": "running", "nbinsx": 10, "opacity": 0.75, "type": "histogram", "x": [39.0, 91.0, 46.0, 51.0, 37.0, 0.0, 35.0, 34.0, 111.0, 70.0, 90.0, 33.0, 36.0, 0.0, 71.0, 36.0, 91.0, 0.0, 0.0, 82.0, 46.0, 0.0, 67.0, 0.0, 0.0, 91.0, 52.0, 111.0, 0.0, 65.0, 0.0, 31.0, 31.0, 58.0, 108.0, 65.0, 62.0, 99.0, 30.0, 30.0, 30.0, 29.0, 29.0, 27.0, 26.0, 25.0, 0.0, 45.0, 16.0, 16.0, 46.0, 46.0, 0.0, 14.0, 13.0, 13.0, 46.0, 80.0, 111.0, 0.0, 0.0, 0.0, 0.0, 11.0, 10.0, 10.0, 10.0, 10.0, 9.0, 6.0, 4.0, 3.0, 3.0, 2.0, 2.0, 1.0, 0.0]}],
                         {"bargap": 0.2, "bargroupgap": 0.1, "barmode": "overlay", "template": {"data": {"bar": [{"error_x": {"color": "#2a3f5f"}, "error_y": {"color": "#2a3f5f"}, "marker": {"line": {"color": "#E5ECF6", "width": 0.5}}, "type": "bar"}], "barpolar": [{"marker": {"line": {"color": "#E5ECF6", "width": 0.5}}, "type": "barpolar"}], "carpet": [{"aaxis": {"endlinecolor": "#2a3f5f", "gridcolor": "white", "linecolor": "white", "minorgridcolor": "white", "startlinecolor": "#2a3f5f"}, "baxis": {"endlinecolor": "#2a3f5f", "gridcolor": "white", "linecolor": "white", "minorgridcolor": "white", "startlinecolor": "#2a3f5f"}, "type": "carpet"}], "choropleth": [{"colorbar": {"outlinewidth": 0, "ticks": ""}, "type": "choropleth"}], "contour": [{"colorbar": {"outlinewidth": 0, "ticks": ""}, "colorscale": [[0.0, "#0d0887"], [0.1111111111111111, "#46039f"], [0.2222222222222222, "#7201a8"], [0.3333333333333333, "#9c179e"], [0.4444444444444444, "#bd3786"], [0.5555555555555556, "#d8576b"], [0.6666666666666666, "#ed7953"], [0.7777777777777778, "#fb9f3a"], [0.8888888888888888, "#fdca26"], [1.0, "#f0f921"]], "type": "contour"}], "contourcarpet": [{"colorbar": {"outlinewidth": 0, "ticks": ""}, "type": "contourcarpet"}], "heatmap": [{"colorbar": {"outlinewidth": 0, "ticks": ""}, "colorscale": [[0.0, "#0d0887"], [0.1111111111111111, "#46039f"], [0.2222222222222222, "#7201a8"], [0.3333333333333333, "#9c179e"], [0.4444444444444444, "#bd3786"], [0.5555555555555556, "#d8576b"], [0.6666666666666666, "#ed7953"], [0.7777777777777778, "#fb9f3a"], [0.8888888888888888, "#fdca26"], [1.0, "#f0f921"]], "type": "heatmap"}], "heatmapgl": [{"colorbar": {"outlinewidth": 0, "ticks": ""}, "colorscale": [[0.0, "#0d0887"], [0.1111111111111111, "#46039f"], [0.2222222222222222, "#7201a8"], [0.3333333333333333, "#9c179e"], [0.4444444444444444, "#bd3786"], [0.5555555555555556, "#d8576b"], [0.6666666666666666, "#ed7953"], [0.7777777777777778, "#fb9f3a"], [0.8888888888888888, "#fdca26"], [1.0, "#f0f921"]], "type": "heatmapgl"}], "histogram": [{"marker": {"colorbar": {"outlinewidth": 0, "ticks": ""}}, "type": "histogram"}], "histogram2d": [{"colorbar": {"outlinewidth": 0, "ticks": ""}, "colorscale": [[0.0, "#0d0887"], [0.1111111111111111, "#46039f"], [0.2222222222222222, "#7201a8"], [0.3333333333333333, "#9c179e"], [0.4444444444444444, "#bd3786"], [0.5555555555555556, "#d8576b"], [0.6666666666666666, "#ed7953"], [0.7777777777777778, "#fb9f3a"], [0.8888888888888888, "#fdca26"], [1.0, "#f0f921"]], "type": "histogram2d"}], "histogram2dcontour": [{"colorbar": {"outlinewidth": 0, "ticks": ""}, "colorscale": [[0.0, "#0d0887"], [0.1111111111111111, "#46039f"], [0.2222222222222222, "#7201a8"], [0.3333333333333333, "#9c179e"], [0.4444444444444444, "#bd3786"], [0.5555555555555556, "#d8576b"], [0.6666666666666666, "#ed7953"], [0.7777777777777778, "#fb9f3a"], [0.8888888888888888, "#fdca26"], [1.0, "#f0f921"]], "type": "histogram2dcontour"}], "mesh3d": [{"colorbar": {"outlinewidth": 0, "ticks": ""}, "type": "mesh3d"}], "parcoords": [{"line": {"colorbar": {"outlinewidth": 0, "ticks": ""}}, "type": "parcoords"}], "scatter": [{"marker": {"colorbar": {"outlinewidth": 0, "ticks": ""}}, "type": "scatter"}], "scatter3d": [{"line": {"colorbar": {"outlinewidth": 0, "ticks": ""}}, "marker": {"colorbar": {"outlinewidth": 0, "ticks": ""}}, "type": "scatter3d"}], "scattercarpet": [{"marker": {"colorbar": {"outlinewidth": 0, "ticks": ""}}, "type": "scattercarpet"}], "scattergeo": [{"marker": {"colorbar": {"outlinewidth": 0, "ticks": ""}}, "type": "scattergeo"}], "scattergl": [{"marker": {"colorbar": {"outlinewidth": 0, "ticks": ""}}, "type": "scattergl"}], "scattermapbox": [{"marker": {"colorbar": {"outlinewidth": 0, "ticks": ""}}, "type": "scattermapbox"}], "scatterpolar": [{"marker": {"colorbar": {"outlinewidth": 0, "ticks": ""}}, "type": "scatterpolar"}], "scatterpolargl": [{"marker": {"colorbar": {"outlinewidth": 0, "ticks": ""}}, "type": "scatterpolargl"}], "scatterternary": [{"marker": {"colorbar": {"outlinewidth": 0, "ticks": ""}}, "type": "scatterternary"}], "surface": [{"colorbar": {"outlinewidth": 0, "ticks": ""}, "colorscale": [[0.0, "#0d0887"], [0.1111111111111111, "#46039f"], [0.2222222222222222, "#7201a8"], [0.3333333333333333, "#9c179e"], [0.4444444444444444, "#bd3786"], [0.5555555555555556, "#d8576b"], [0.6666666666666666, "#ed7953"], [0.7777777777777778, "#fb9f3a"], [0.8888888888888888, "#fdca26"], [1.0, "#f0f921"]], "type": "surface"}], "table": [{"cells": {"fill": {"color": "#EBF0F8"}, "line": {"color": "white"}}, "header": {"fill": {"color": "#C8D4E3"}, "line": {"color": "white"}}, "type": "table"}]}, "layout": {"annotationdefaults": {"arrowcolor": "#2a3f5f", "arrowhead": 0, "arrowwidth": 1}, "colorscale": {"diverging": [[0, "#8e0152"], [0.1, "#c51b7d"], [0.2, "#de77ae"], [0.3, "#f1b6da"], [0.4, "#fde0ef"], [0.5, "#f7f7f7"], [0.6, "#e6f5d0"], [0.7, "#b8e186"], [0.8, "#7fbc41"], [0.9, "#4d9221"], [1, "#276419"]], "sequential": [[0.0, "#0d0887"], [0.1111111111111111, "#46039f"], [0.2222222222222222, "#7201a8"], [0.3333333333333333, "#9c179e"], [0.4444444444444444, "#bd3786"], [0.5555555555555556, "#d8576b"], [0.6666666666666666, "#ed7953"], [0.7777777777777778, "#fb9f3a"], [0.8888888888888888, "#fdca26"], [1.0, "#f0f921"]], "sequentialminus": [[0.0, "#0d0887"], [0.1111111111111111, "#46039f"], [0.2222222222222222, "#7201a8"], [0.3333333333333333, "#9c179e"], [0.4444444444444444, "#bd3786"], [0.5555555555555556, "#d8576b"], [0.6666666666666666, "#ed7953"], [0.7777777777777778, "#fb9f3a"], [0.8888888888888888, "#fdca26"], [1.0, "#f0f921"]]}, "colorway": ["#636efa", "#EF553B", "#00cc96", "#ab63fa", "#FFA15A", "#19d3f3", "#FF6692", "#B6E880", "#FF97FF", "#FECB52"], "font": {"color": "#2a3f5f"}, "geo": {"bgcolor": "white", "lakecolor": "white", "landcolor": "#E5ECF6", "showlakes": true, "showland": true, "subunitcolor": "white"}, "hoverlabel": {"align": "left"}, "hovermode": "closest", "mapbox": {"style": "light"}, "paper_bgcolor": "white", "plot_bgcolor": "#E5ECF6", "polar": {"angularaxis": {"gridcolor": "white", "linecolor": "white", "ticks": ""}, "bgcolor": "#E5ECF6", "radialaxis": {"gridcolor": "white", "linecolor": "white", "ticks": ""}}, "scene": {"xaxis": {"backgroundcolor": "#E5ECF6", "gridcolor": "white", "gridwidth": 2, "linecolor": "white", "showbackground": true, "ticks": "", "zerolinecolor": "white"}, "yaxis": {"backgroundcolor": "#E5ECF6", "gridcolor": "white", "gridwidth": 2, "linecolor": "white", "showbackground": true, "ticks": "", "zerolinecolor": "white"}, "zaxis": {"backgroundcolor": "#E5ECF6", "gridcolor": "white", "gridwidth": 2, "linecolor": "white", "showbackground": true, "ticks": "", "zerolinecolor": "white"}}, "shapedefaults": {"line": {"color": "#2a3f5f"}}, "ternary": {"aaxis": {"gridcolor": "white", "linecolor": "white", "ticks": ""}, "baxis": {"gridcolor": "white", "linecolor": "white", "ticks": ""}, "bgcolor": "#E5ECF6", "caxis": {"gridcolor": "white", "linecolor": "white", "ticks": ""}}, "title": {"x": 0.05}, "xaxis": {"automargin": true, "gridcolor": "white", "linecolor": "white", "ticks": "", "zerolinecolor": "white", "zerolinewidth": 2}, "yaxis": {"automargin": true, "gridcolor": "white", "linecolor": "white", "ticks": "", "zerolinecolor": "white", "zerolinewidth": 2}}}, "title": {"text": "Run Times and Time Elapsed"}, "xaxis": {"title": {"text": "Time (hrs)"}}, "yaxis": {"title": {"text": "Count"}}},
                         {"responsive": true}
                     )
@@ -95,7 +95,7 @@
                     </tr>
                 </table><!-- End One Column -->
                 <p class = "middle" font-size="16px">
-                    Generated: 2019-08-22 20:26:05.045331
+                    Generated: 2019-08-23 09:52:23.689200
                 </p>
                 <!-- Footer -->
                 <table align="center" border="0" cellpadding="0" cellspacing="2" class="deviceWidth" style="margin:0 auto;border:none;border-top:solid #971B2F 1.5pt;border-bottom:solid #971B2F 1.5pt;" width="1200">
